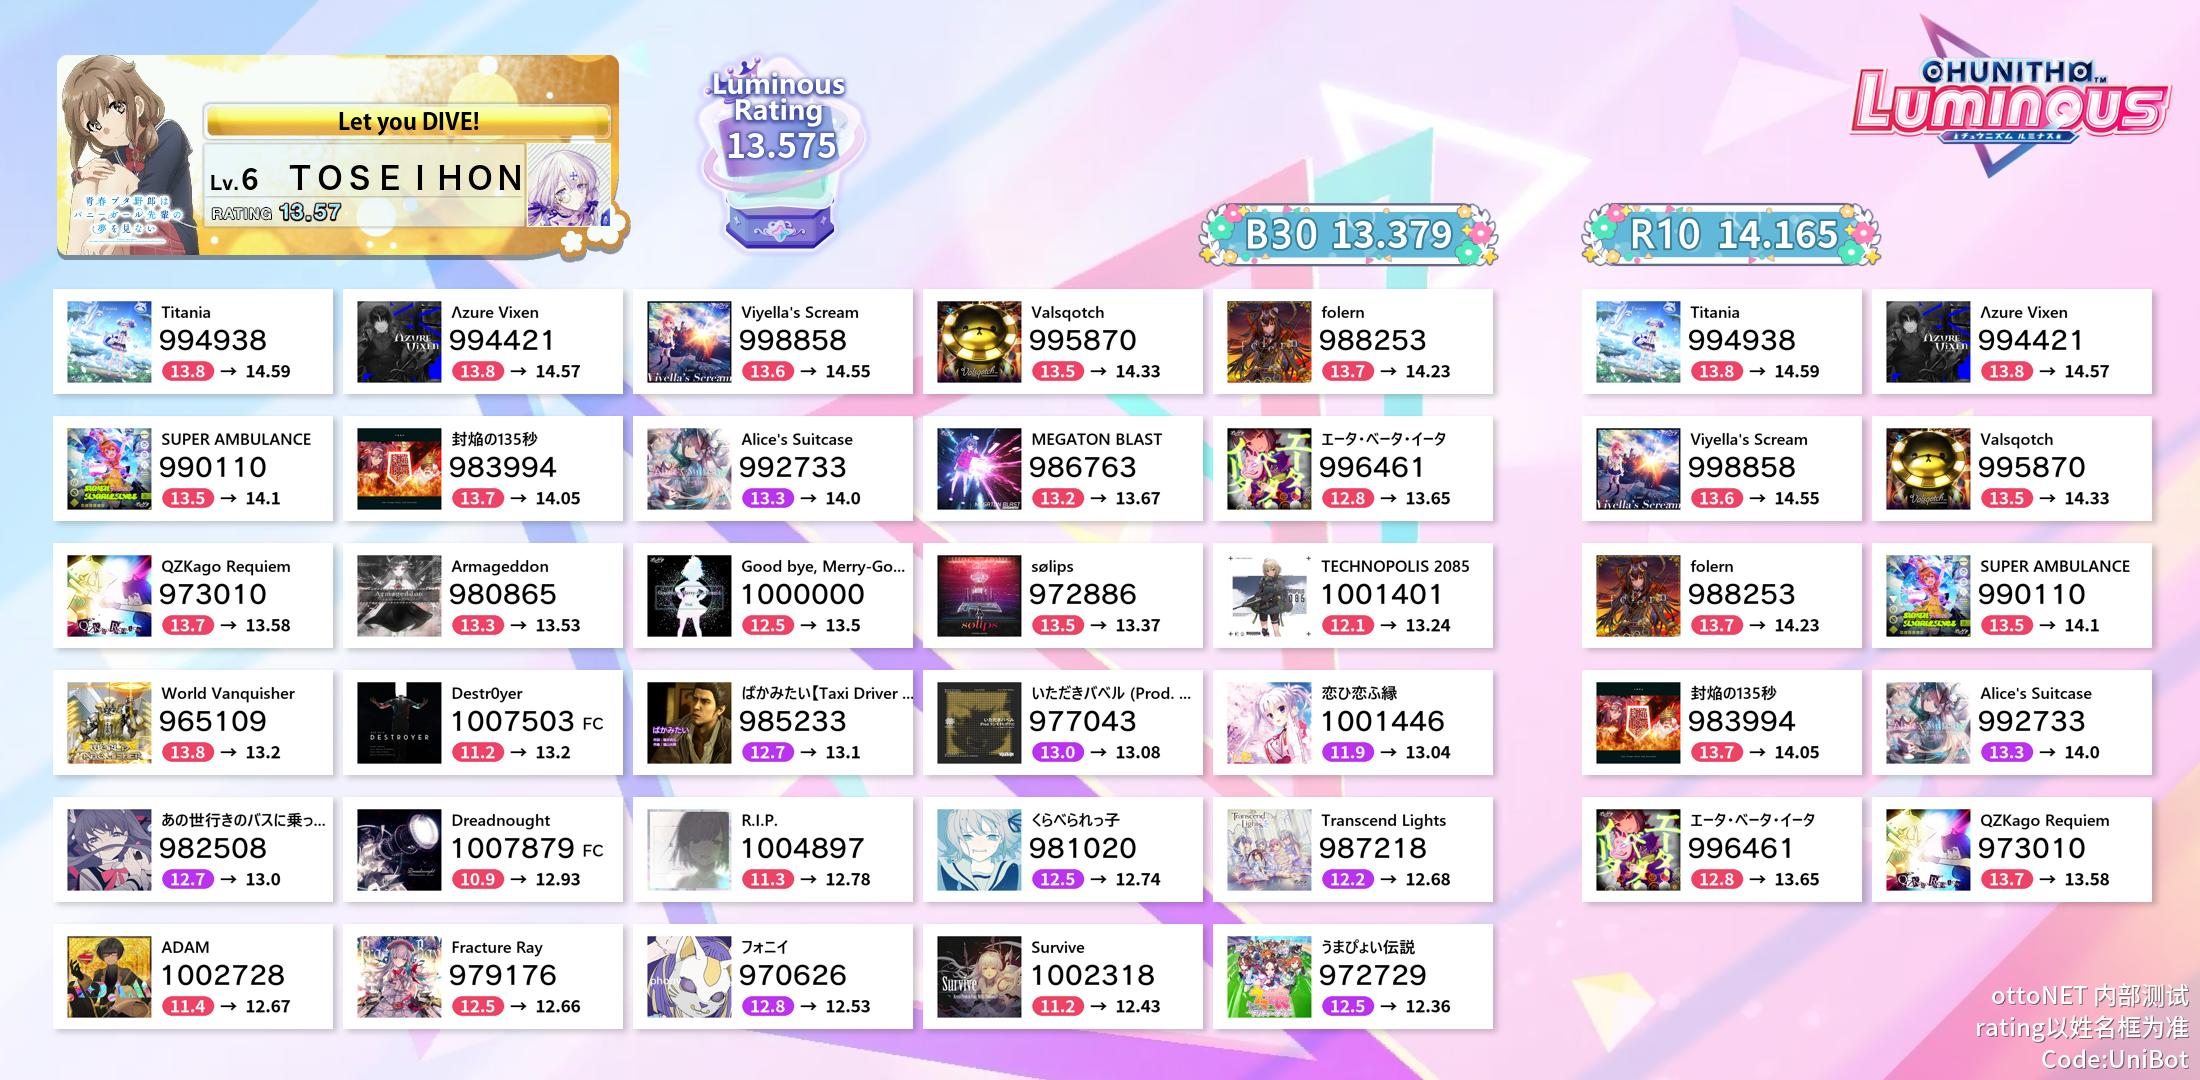
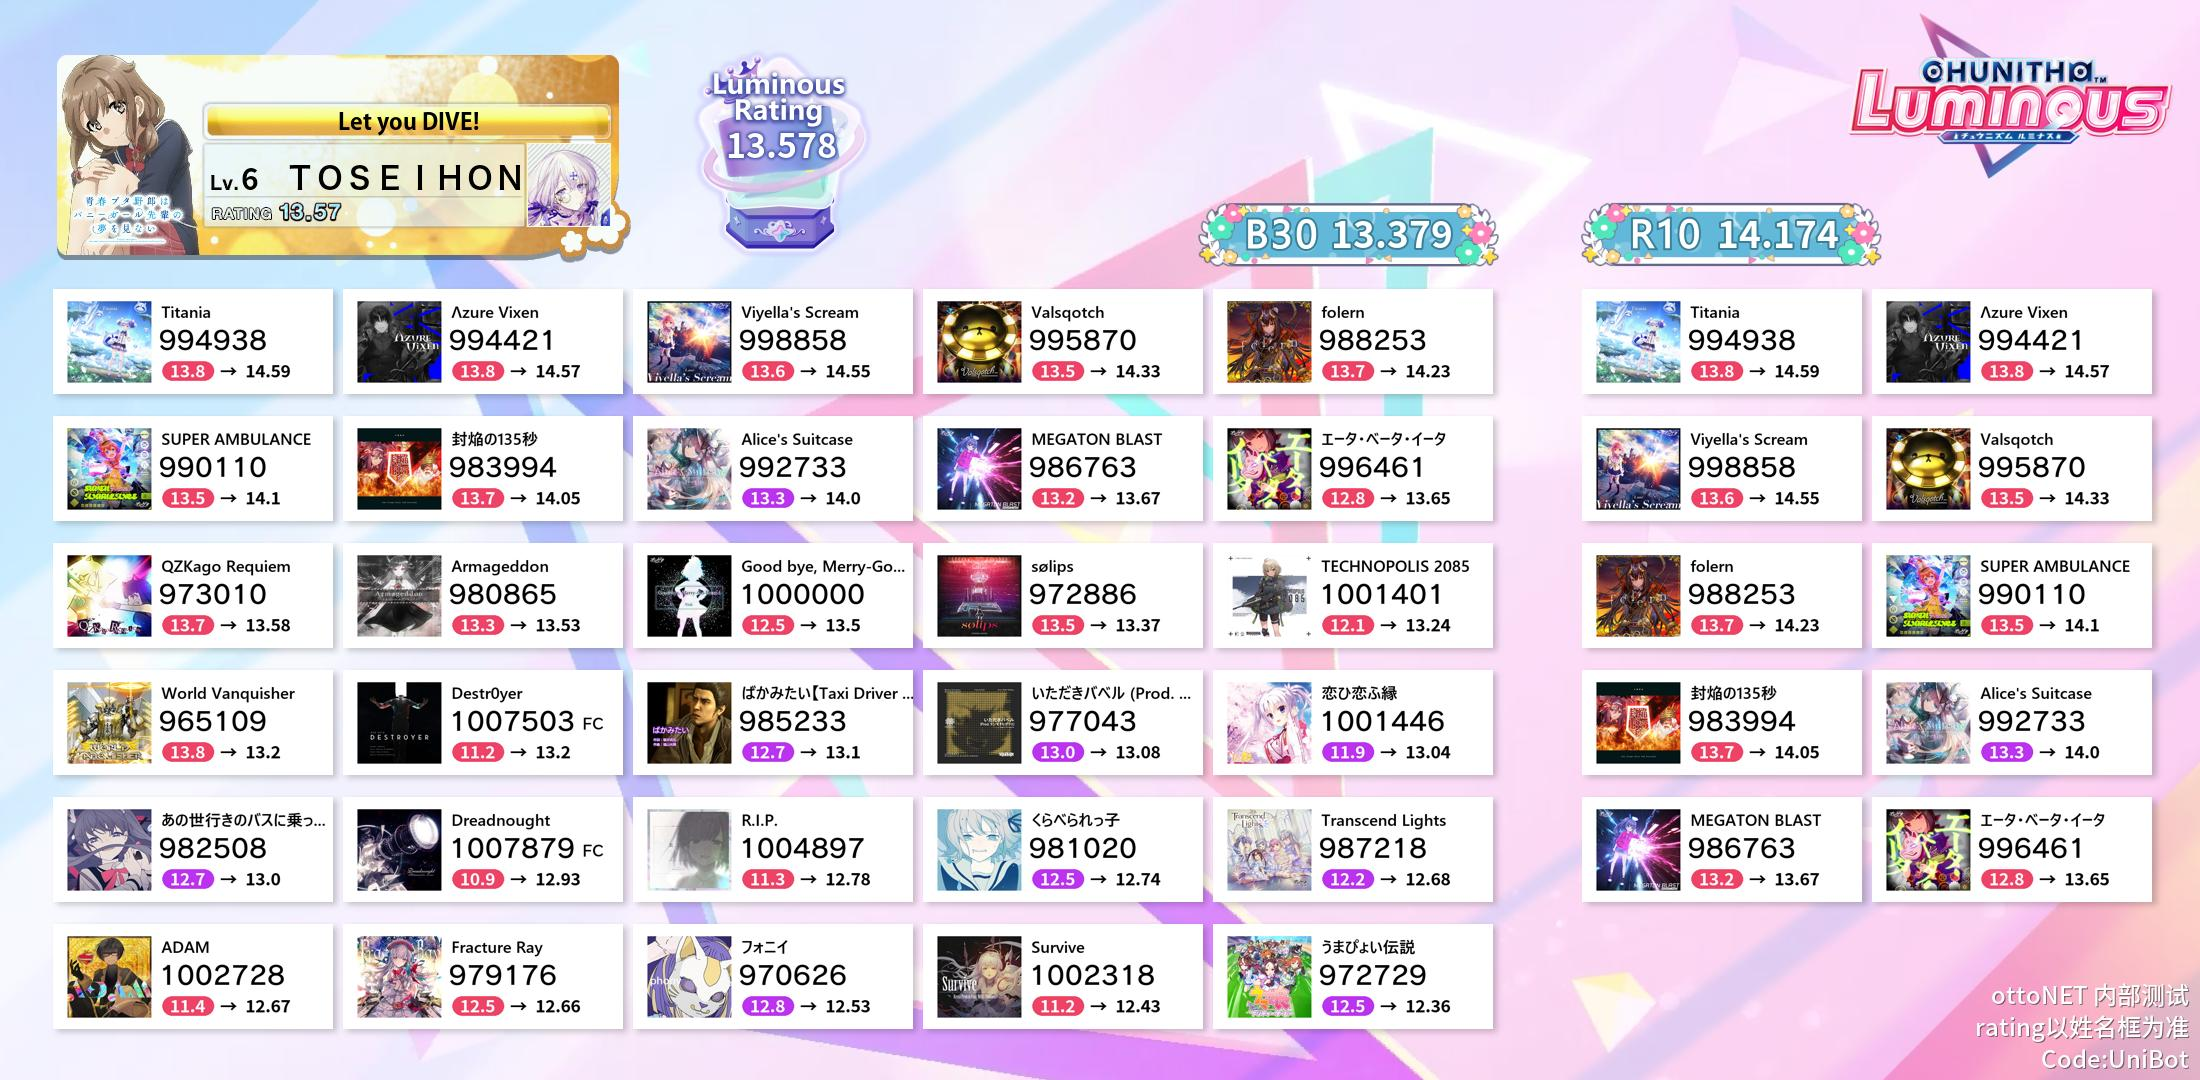
更改r10生成方法

Changed region(s): [[0.7109, 0.7333, 0.9582, 0.825], [0.8036, 0.1833, 0.8345, 0.2444], [0.3709, 0.1222, 0.4018, 0.1528]]

diff --git a/static/playlog.html b/static/playlog.html
@@ -106,13 +106,21 @@
         }
 
         .jacket {
-            width: 128px;
-            height: 128px;
+            width: 100%;
+            height: auto;
+            max-width: 128px;
+            max-height: 128px;
         }
 
         #level {
             color: rgba(255, 255, 255, 0.95);
             border-radius: 5px;
+            white-space: nowrap;
+            max-width: 65%;
+            text-align: center;
+            width: 65%;
+            line-height: 1em;
+            padding: 0.25em 0;
         }
 
         #level[data-difficulty="WORLD'S END"] {
@@ -359,15 +367,15 @@
 
                 tableHtml += `
                     <tr>
-                        <td style="text-align: center;">
+                        <td style="text-align: center;width:40%;">
                             <img src="static/jackets/${item.jacketFile}" class="jacket">
                         </td>
                         <td style="text-align: left;">
                             <div style="display: flex; justify-content: space-between;">
                                 <span id="level" data-difficulty="${item.musicDifficulty.toUpperCase()}">${item.musicDifficulty.toUpperCase()} ${item.playLevel !== 0 ? item.playLevel : ''}</span>
-                                <span style="font-family: Arial, sans-serif;">${formatDateTime(item.userPlayDate)}</span>
+                                <span style="font-family: Arial, sans-serif;max-width: 30%;width: 30%;font-size: 12px;">${formatDateTime(item.userPlayDate)}</span>
                             </div>
-                            <div>${item.musicName}</div>
+                            <div style="word-break: break-word;">${item.musicName}</div>
                             </br>
                             <span style="font-family: Geometr415; font-size: 32px;">${item.score}</span> <span style="font-family: 'Geometr415';">${formattedRating}</span></br>
                             ${newRecordImage}${fullComboImage}${allJusticeImage}<img src="/static/pics/icons/icon_rank_${rankImage}.png">
@@ -534,6 +542,20 @@
                     });
                     window.location.href = '/login';
                 });
+            }
+        });
+
+        window.addEventListener('DOMContentLoaded', function() {
+            var levelSpan = document.getElementById('level');
+            var containerWidth = levelSpan.offsetWidth;
+            var fontSize = parseInt(window.getComputedStyle(levelSpan).fontSize);
+            var textWidth = levelSpan.scrollWidth;
+
+            // 如果文本宽度大于容器宽度，则缩小字体大小
+            while (textWidth > containerWidth) {
+                fontSize -= 1;
+                levelSpan.style.fontSize = fontSize + 'px';
+                textWidth = levelSpan.scrollWidth;
             }
         });
     </script>

diff --git a/b30.py b/b30.py
@@ -329,33 +329,18 @@ def playlog(id):
 
 
 def process_r10(id):
-    # 获取用户r30数据
     conn = sqlite3.connect('../rinsama-aqua/data/db.sqlite')
     cursor = conn.cursor()
-    cursor.execute("SELECT * FROM chusan_user_playlog WHERE user_id = '{}'".format(id))
+    cursor.execute("SELECT * FROM chusan_user_general_data WHERE id = {}".format(id))
     rows = cursor.fetchall()
-    rows = list(reversed(rows))
-    columns = [description[0] for description in cursor.description]
-    user_data = []
-    count = 0
-    for row, next_row in zip(rows, rows[1:] + [None]):
-        if row[19] in [0, 1, 2, 3, 4]:
-            if count >= 30:
-                break
-
-            # 如果某次游玩取得了不低于SSS的评价但Rating值不足以更新这30次游玩的成绩，该次记录不会参与最近30次游玩的计算。
-            # 这里通过判断前后rating是否变化来得知是否更新了r30，实际上这样只能知道是否更新了r10
-
-            # 也可能是**如果**游玩后无法更新r30就不会参与计算，判断是放在游玩前的，**如果**
-
-            if (next_row is not None) and (int(row[47]) >= 1007500) and (next_row[40] == row[40]):
-                continue
-
-            row_dict = dict(zip(columns, row))
-            user_data.append(row_dict)
-            count += 1
-
+    items = rows[0][2].split(',')
+    r30list = []
+    for item in items:
+        parts = item.split(':')
+        music_dict = {'music_id': int(parts[0]), 'level': int(parts[1]), 'score': int(parts[2])}
+        r30list.append(music_dict)
     conn.close()
+
     difficulty_mapping = {
         "0": "basic",
         "1": "advanced",
@@ -376,7 +361,7 @@ def process_r10(id):
     rating_list = []
 
     # 遍历用户数据，计算rating，并构造需要的数据结构
-    for record in user_data:
+    for record in r30list:
         music_id = str(record["music_id"])
         difficult_id = str(record["level"])
         score = int(record["score"])
@@ -634,9 +619,14 @@ def get_user_info_pic(id):
             trophy_name = trophy_name[:-1]
             text_width, text_height = draw.textsize(trophy_name, font=font_style)
         text_to_draw = trophy_name
-
     # 绘制文本
     draw.text((x, 54), text_to_draw, fill=(0, 0, 0), font=font_style)
+
+    team_pic = Image.open('static/team/rainbow.png')
+    img.paste(team_pic, (0, 0), team_pic.split()[3])
+    font_style = ImageFont.truetype("fonts/KOZGOPRO-BOLD.OTF", 18)
+    draw.text((240, 19), "ottoNET", fill=(0, 0, 0, 180), font=font_style)
+    draw.text((238, 17), "ottoNET", fill=(255, 255, 255), font=font_style)
 
     return img
 
@@ -672,6 +662,7 @@ def chunib30(userid, server='aqua', version='2.20'):
               stroke_fill="#38809A")
 
     ratings = process_r10(userid)
+
     rating_sum = 0
     for i in range(0, 10):
         try:
@@ -707,7 +698,7 @@ def chunib30(userid, server='aqua', version='2.20'):
     user_nameplate = get_user_info_pic(userid)
     pic.paste(user_nameplate, (57, 55), user_nameplate.split()[3])
 
-    text = 'ottoNET 内部测试\nrating以姓名框为准\nCode:UniBot\n'
+    text = 'ottoNET 内部测试\nDesigned by Watagashi-uni\nModified by MonianHello\n'
 
     font_style = ImageFont.truetype("fonts/SourceHanSansCN-Medium.otf", 24)
 
@@ -716,7 +707,7 @@ def chunib30(userid, server='aqua', version='2.20'):
     shadow_draw = ImageDraw.Draw(shadow_layer)
 
     # 绘制文字阴影
-    shadow_position = (1976, 996) if len(text.split('\n')) == 3 else (1976, 977)
+    shadow_position = (1886, 977) 
     shadow_draw.text(shadow_position, text, fill=(0, 0, 0, 150), font=font_style, align='right')
     shadow_layer = shadow_layer.filter(ImageFilter.GaussianBlur(0.5))
     # 将带有阴影的图层合并到原始图像上
@@ -724,7 +715,7 @@ def chunib30(userid, server='aqua', version='2.20'):
 
     # 在原始图像上绘制不透明的文字
     draw = ImageDraw.Draw(pic)
-    text_position = (1975, 995) if len(text.split('\n')) == 3 else (1975, 976)
+    text_position = (1885, 976)
     draw.text(text_position, text, fill=(255, 255, 255), font=font_style, align='right')
 
     pic = pic.convert("RGB")
